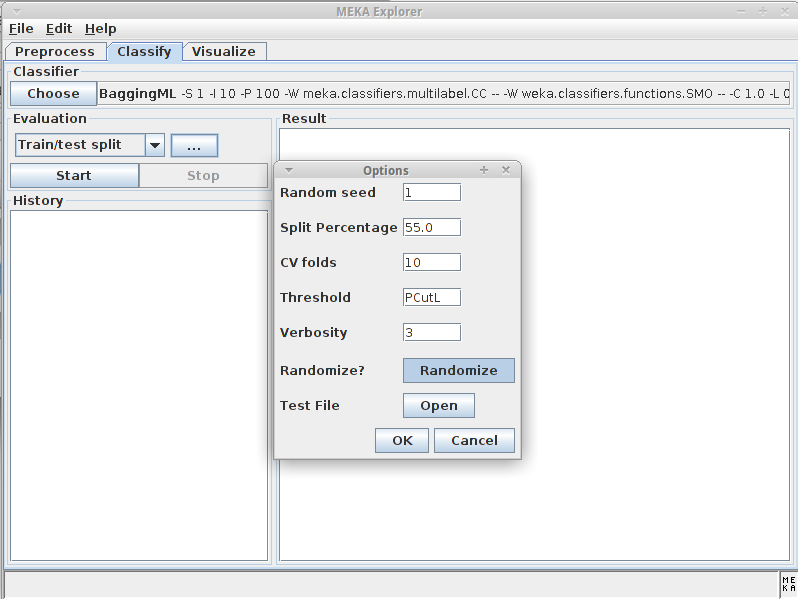
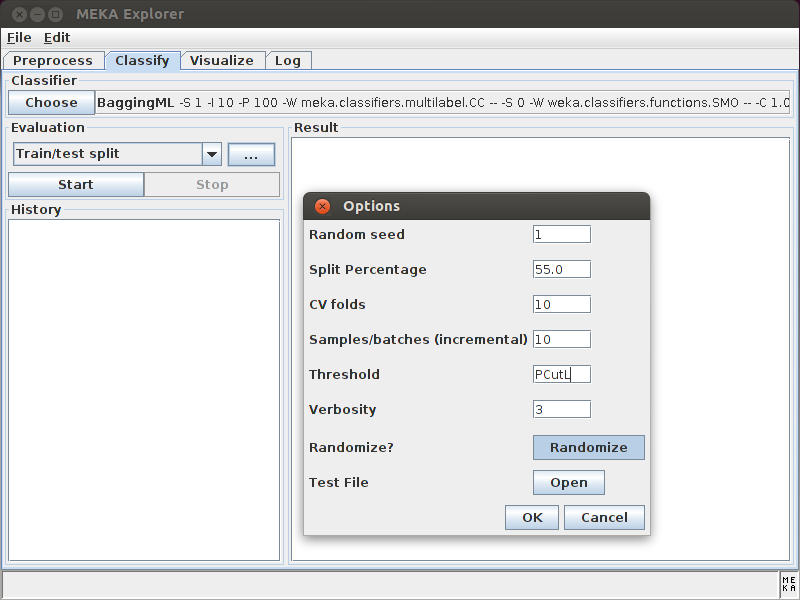
Updated tutorial, and included new screenshots.

Changed region(s): [[0.0, 0.0, 1.0, 1.0]]

diff --git a/trunk/src/main/latex/Tutorial/Tutorial.tex b/trunk/src/main/latex/Tutorial/Tutorial.tex
@@ -7,7 +7,7 @@
 \newcommand{\MOA}{Moa}
 \newcommand{\WEKA}{Weka}
 \newcommand{\MULAN}{Mulan}
-\def\version{{\tt 2.0.0}}
+\def\version{{\tt 1.9.0}}
 \usepackage{listings}
 
 \definecolor{mygreen}{rgb}{0,0.6,0}
@@ -80,34 +80,29 @@ This tutorial applies to \framework{\MEKA} version {\version}.
 
 \section{Getting Started}
 
-\framework{\MEKA} can be download from: \url{http://sourceforge.net/projects/meka/files/}. This tutorial is written for version \version; and assumes that you have downloaded and extracted {\green the \texttt{meka-release-\version} and that \texttt{meka-\version}, found within, is your current working directory.
-}
+\framework{\MEKA} can be download from: \url{http://sourceforge.net/projects/meka/files/}. This tutorial is written for version \version; and assumes that you have downloaded and extracted the \texttt{meka-release-\version.zip} and that the \texttt{meka-\version/}, found within, is your current working directory.
 
 \subsection{Requirements}
 
 \framework{\MEKA} requires:
 
 \begin{itemize}
-	 \item Java version 1.6 or above
+	 \item Java version 1.7 or above
 \end{itemize}
 
 %\subsection{Downloading}
-{\green
-\framework{\MEKA} comes bundled with other packages such as \framework{\WEKA}'s \texttt{weka.jar}, and also \framework{\MULAN}'s \texttt{mulan.jar} for running classifiers from this framework. % If \framework{\WEKA} is already installed on your system, it must be at least version release (\texttt{3.7.X}) to be compatible with \texttt{\MEKA}.
-These files are found in the \texttt{lib} directory. See \texttt{lib/README.txt} for version information.
-}
-
+\framework{\MEKA} comes bundled with other packages such as \framework{\WEKA}'s and \framework{\MULAN}'s \texttt{mulan.jar}.% for running classifiers from this framework. % If \framework{\WEKA} is already installed on your system, it must be at least version release (\texttt{3.7.X}) to be compatible with \texttt{\MEKA}.
+These files are found in the \texttt{lib/} directory. %See \texttt{lib/README.txt} for version information.
 
 %\framework{\MEKA}'s incremental classification extension (\texttt{mice.jar}) comes packaged in a separate jar file. 
 
 \subsection{Running}
 \label{sec:running}
 
-\framework{\MEKA} can be used very easily from the command line. For example, to run the Binary Relevance (BR) classifier on the \textit{Music} dataset; {\green type:
+\framework{\MEKA} can be used very easily from the command line. For example, to run the Binary Relevance (BR) classifier on the \textit{Music} dataset; type:
 \begin{lstlisting}
 java -cp "./lib/*" meka.classifiers.multilabel.BR -t data/Music.arff
 \end{lstlisting}
-}
 
 If you are on a Microsoft Windows system, you need to use back slashes instead of forward slashes (\texttt{.\textbackslash lib\textbackslash*}). If you add the \texttt{jar} files to the system's \texttt{CLASSPATH}, you do not need to supply the \texttt{-cp} option at runtime. For the remainder of examples in this tutorial we will assume that this is the case.
 
@@ -193,7 +188,7 @@ java meka.classifiers.multilabel.BR -t data/Music.arff \
 
 \subsubsection{\label{sec:evaluation}Evaluation}
 
-Running \texttt{BR} {\green with \texttt{NaiveBayes}} on the \textit{Music} data will output the following:
+Running \texttt{BR} with \texttt{NaiveBayes} on the \textit{Music} data will output the following:
 
 %\lstinputlisting{eval.txt}
 \begin{center}
@@ -336,7 +331,7 @@ java meka.classifiers.multilabel.meta.EM -t data-train.arff \
 %java -cp meka.jar:weka.jar weka.classifiers.multitarget.meta.BaggingMT -x 5 -R -t data/solar_flare.arff -W weka.%classifiers.multitarget.C    C -- -W weka.classifiers.functions.Logistic
 %\end{lstlisting}
 
-{\green Note that the training set is required again in the second command because when \texttt{PCutL} is used (currently the default) it is necessary to know the label cardinality of the training data in order to calibrate a threshold.}
+Note that the training set is required again in the second command because when \texttt{PCutL} is used (currently the default) it is necessary to know the label cardinality of the training data in order to calibrate a threshold for the test data.
 
 \subsection{Graphical User Interface}
 
@@ -355,7 +350,7 @@ You will see a number of tabs: \textsf{Preprocess}, \textsf{Classify}, \textsf{V
 	\item In the \textsf{Evaluation} panel you configure what type of evaluation you want to do, and some of the options given in the previous section are available here. For example, a 55/45 train/test split, with \texttt{PCutL} threshold calibration, as being specified in \Fig{screen:split}.
 	\item When you click \textsf{Start} the experiment will be run. When finished, the result will appear in the \textsf{History} panel, as in \Fig{screen:result}. This is the same output as would be seen on the command line, and explained in the following section. The verbosity of the results is controlled by the \textsf{Verbosity} option (see \Sec{sec:evaluation})
 	%\item You can export results to text, or copy of paste it.
-	\item (Optional) View the Precision-Recall curves by right-clicking on the results and selecting \textsf{Show Precision-Recall}. {\green See \Fig{fig:curves}}
+	\item (Optional) View the Precision-Recall curves by right-clicking on the results and selecting \textsf{Show Precision-Recall}. See \Fig{screen:curves}
 	\item (Optional) If you chose a \texttt{MultiLabelDrawable} classifier (such as \texttt{BR}, \texttt{CC}, \texttt{LP}, or any derivatives) and a \texttt{Drawable} base classifier such as \texttt{J48}, you can right click on the results and select \textsf{Show Graphs}. See \Fig{screen:graphs}
 	\item (Optional) Click on the \textsf{Visualize} tab inspect the dataset.
 	\item (Optional) To remember later what you have done, \textsf{Save} the log from under the \textsf{Log} tab. 
@@ -377,7 +372,7 @@ You will see a number of tabs: \textsf{Preprocess}, \textsf{Classify}, \textsf{V
 
 \begin{figure}
 	\centering
-	\includegraphics[height=0.95\textwidth]{GUI04.png}
+	\includegraphics[height=0.60\textwidth]{GUI04.png}
 	\caption{\label{screen:result} \framework{MEKA}'s GUI interface; results.}
 \end{figure}
 
@@ -385,7 +380,14 @@ You will see a number of tabs: \textsf{Preprocess}, \textsf{Classify}, \textsf{V
 
 \begin{figure}
 	\centering
-	\includegraphics[height=0.75\textwidth]{GUI05.png}
+	\includegraphics[height=0.30\textwidth]{GUI06.png}
+	\includegraphics[height=0.30\textwidth]{GUI07.png}
+	\caption{\label{screen:curves} \framework{MEKA}'s GUI interface; viewing incremental performance over time (left) and a ROC curve (right).}
+\end{figure}
+
+\begin{figure}
+	\centering
+	\includegraphics[height=0.55\textwidth]{GUI05.png}
 	\caption{\label{screen:graphs} \framework{MEKA}'s GUI interface; viewing a Decision Tree model of \texttt{CC}.}
 \end{figure}
 
@@ -413,6 +415,8 @@ As in the Explorer, you will see a number of tabs. The following process will gu
 	\item Click $\textsf{Statistics}\rightarrow\textsf{Save as (measurement)}$ to save this table as either a \texttt{tsv} or \texttt{tex} file
 	\item A \texttt{tex} file can be imported directly into a latex document with the \texttt{$\backslash$input} command
 \end{enumerate}
+
+If you wish to carry out this process from within Java code, you can inspect the file \texttt{./src/main/java/meka/experiment/ExperimentExample.java} to see how it can be done.
 
 \section{Development}
 \label{development}
